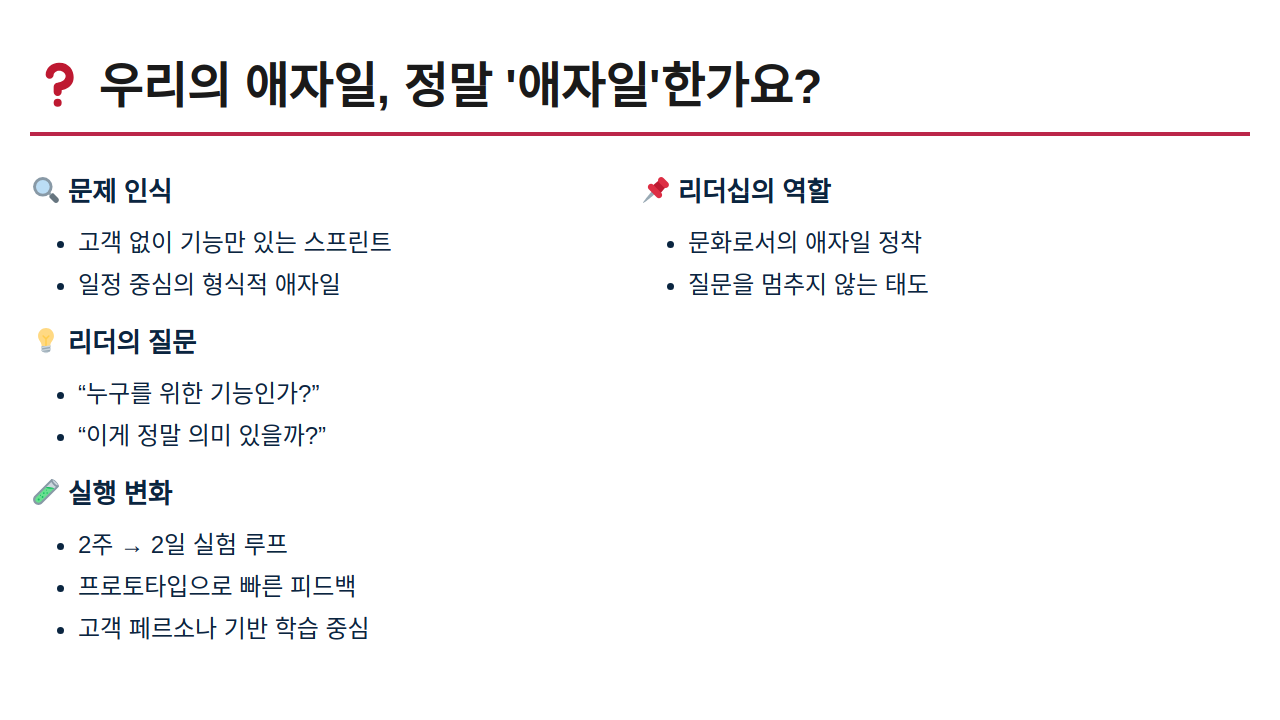
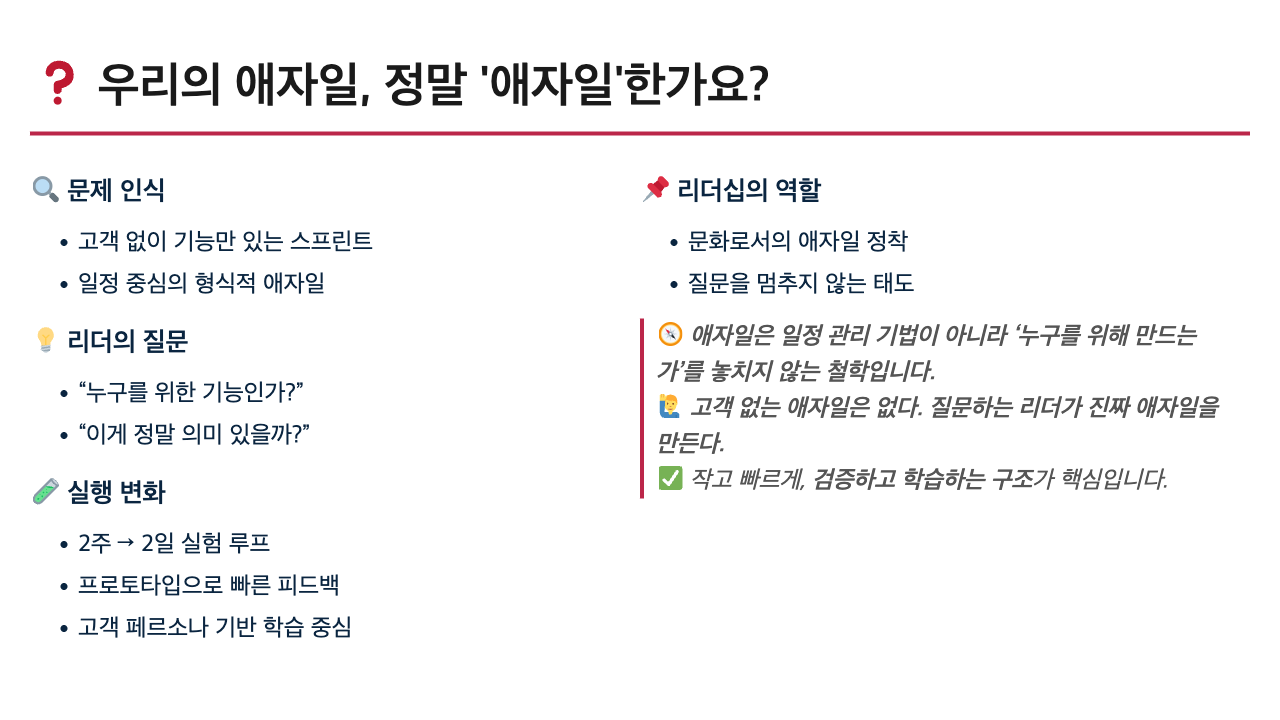
수정

diff --git a/marp/slides/agile-philosophy-is-it-really-agile.md b/marp/slides/agile-philosophy-is-it-really-agile.md
@@ -24,15 +24,9 @@
 - 문화로서의 애자일 정착
 - 질문을 멈추지 않는 태도
 
----
-
->
 > 🧭 **애자일은 일정 관리 기법이 아니라 ‘누구를 위해 만드는가’를 놓치지 않는 철학입니다.**  
->
 > 🙋♂ **고객 없는 애자일은 없다. 질문하는 리더가 진짜 애자일을 만든다.**
->
 > ✅ 작고 빠르게, **검증하고 학습하는 구조**가 핵심입니다.
->
 
 
 </div>
